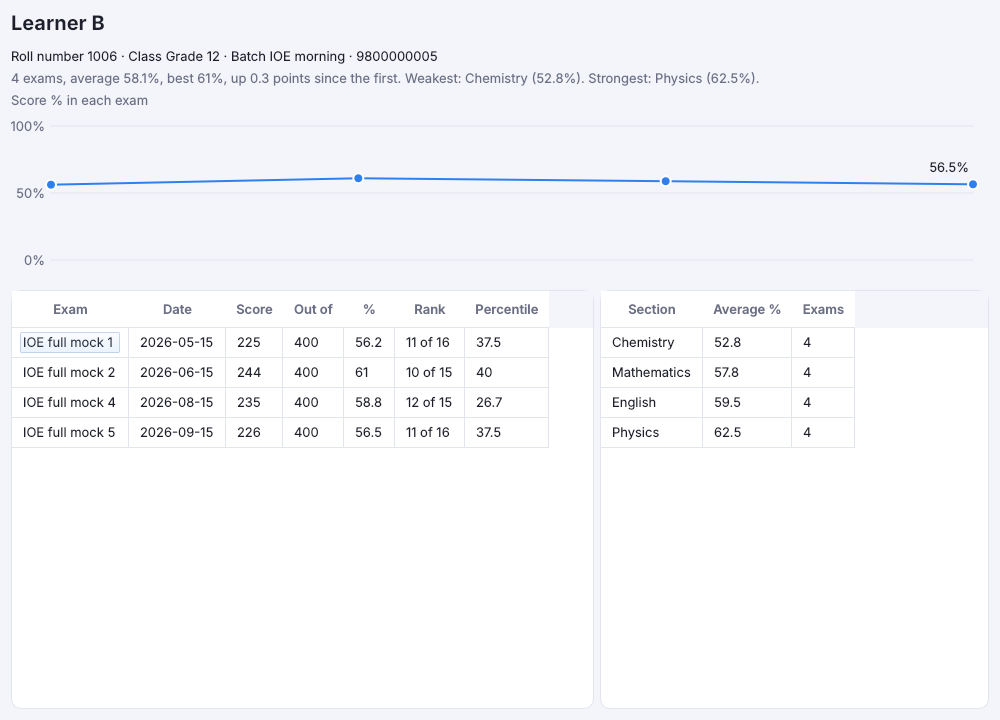
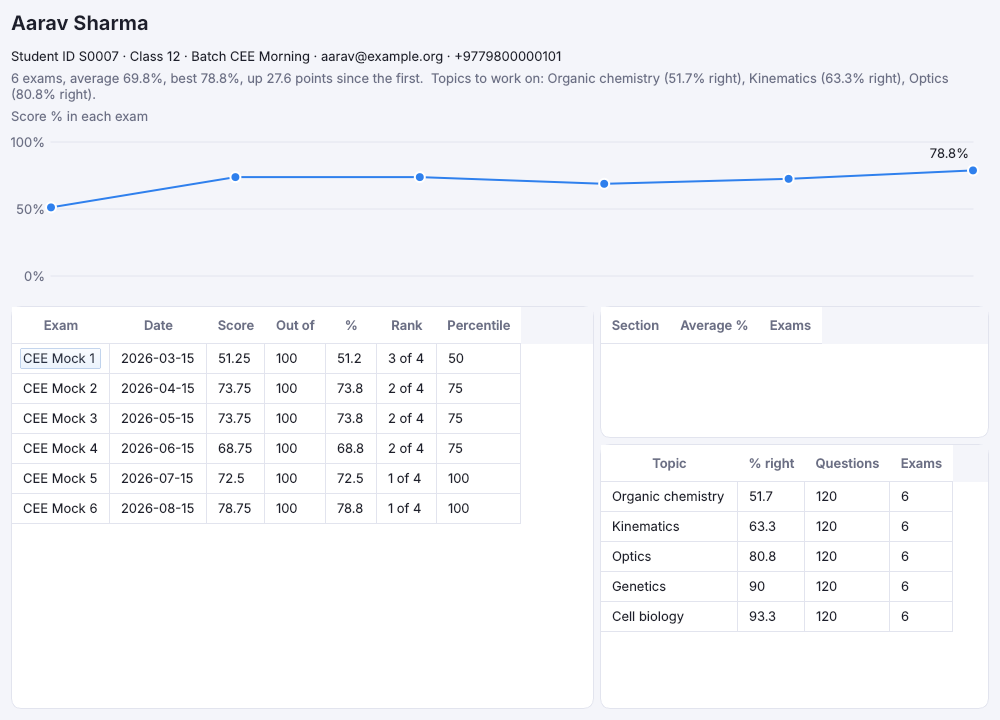
Topic-wise analysis: a student's weak topics over every exam, and batches compared
Claude-Session: https://claude.ai/code/session_01WvfxZMcbNpZuaDLjt6ReRy

diff --git a/src/omr_app/progress.py b/src/omr_app/progress.py
@@ -9,7 +9,7 @@ from PySide6.QtGui import QColor, QPainter, QPen
 from PySide6.QtWidgets import (QComboBox, QDialog, QFileDialog, QHBoxLayout, QLabel, QMessageBox, QPushButton,
                                QTableWidget, QTableWidgetItem, QToolTip, QVBoxLayout, QWidget)
 
-from omr_core.progress import Entry, attendance, history, section_averages
+from omr_core.progress import Entry, attendance, history, section_averages, topic_averages
 from omr_core.store import Store
 from omr_core.students import Student
 
@@ -91,7 +91,7 @@ class ProfileDialog(QDialog):
         self.setWindowTitle(student.name)
         self.resize(900, 700)
         self.entries = history(store, student.roll_number)
-        facts = [f"Roll number {student.roll_number}", student.class_name and f"Class {student.class_name}",
+        facts = [f"Student ID {student.roll_number}", student.class_name and f"Class {student.class_name}",
                  student.batch and f"Batch {student.batch}", student.email, student.phone]
         head = QLabel(f"<h2>{student.name}</h2>" + "  ·  ".join(f for f in facts if f), textFormat=Qt.RichText)
         head.setTextInteractionFlags(Qt.TextSelectableByMouse)
@@ -103,10 +103,13 @@ class ProfileDialog(QDialog):
                        + (f", {'up' if change >= 0 else 'down'} {abs(change):.1f} points since the first" if change
                           is not None else "") + ".")
         else:
-            summary = "No exam has a sheet read for this roll number yet."
+            summary = "No exam has a sheet read for this student yet."
         sections = section_averages(e)
         weak = (f"Weakest: {sections[0][0]} ({sections[0][1]:g}%). Strongest: {sections[-1][0]} "
                 f"({sections[-1][1]:g}%)." if len(sections) > 1 else "")
+        topics = topic_averages(e)
+        if len(topics) > 1:
+            weak += " Topics to work on: " + ", ".join(f"{t} ({p:g}% right)" for t, p, *_ in topics[:3]) + "."
         layout = QVBoxLayout(self)
         layout.addWidget(head)
         layout.addWidget(QLabel(f"{summary} {weak}", objectName="muted", wordWrap=True))
@@ -117,9 +120,16 @@ class ProfileDialog(QDialog):
                            [(x.exam, x.date, x.score, x.out_of, x.percent, f"{x.rank} of {x.of}",
                              round(x.percentile, 1)) for x in e])
         self.sections = table(["Section", "Average %", "Exams"], sections)
+        self.topics = table(["Topic", "% right", "Questions", "Exams"], topics)
+        self.topics.setToolTip("Every topic the student's exams gave their questions (Marks and sections, "
+                               "Topics…), weakest first")
+        side = QVBoxLayout()
+        side.addWidget(self.sections, 1)
+        side.addWidget(self.topics, 2)
+        self.topics.setVisible(bool(topics))
         tables = QHBoxLayout()
         tables.addWidget(self.exams, 3)
-        tables.addWidget(self.sections, 2)
+        tables.addLayout(side, 2)
         layout.addLayout(tables, 1)
 
 

diff --git a/src/omr_core/progress.py b/src/omr_core/progress.py
@@ -25,6 +25,7 @@ class Entry:
     of: int
     percentile: float
     sections: dict[str, float] = field(default_factory=dict)  # percentage per section
+    topics: dict[str, tuple[int, int]] = field(default_factory=dict)  # (right, counted) per topic
 
 
 def history(store: Store, student_id: str, exam_ids: list[int] | None = None) -> list[Entry]:
@@ -38,7 +39,7 @@ def history(store: Store, student_id: str, exam_ids: list[int] | None = None) ->
         e = store.exam(i)
         try:
             graded = grade(e.template, store.pages(i), e.answer_key, e.correct, e.wrong, e.blank, store.students(i),
-                           e.sections)
+                           e.sections, topics=store.topics(i))
         except ValueError:
             continue  # no usable key yet: the exam's own Answer key tab says why
         g = next((g for g in graded if person(i, g.page.result.roll_number) == want), None)
@@ -54,7 +55,7 @@ def history(store: Store, student_id: str, exam_ids: list[int] | None = None) ->
                 sections[sec.name] = round(100 * g.sections.get(sec.name, 0.0) / most, 1)
         out.append(Entry(i, e.name, e.details.get("date") or e.created[:10], g.score, out_of,
                          round(100 * g.score / out_of, 1) if out_of else 0.0, g.rank, len(graded), g.percentile,
-                         sections))
+                         sections, g.topics))
     return out
 
 
@@ -65,6 +66,20 @@ def section_averages(entries: list[Entry]) -> list[tuple[str, float, int]]:
         for name, p in entry.sections.items():
             seen.setdefault(name, []).append(p)
     return sorted(((name, round(sum(p) / len(p), 1), len(p)) for name, p in seen.items()), key=lambda s: s[1])
+
+
+def topic_averages(entries: list[Entry]) -> list[tuple[str, float, int, int]]:
+    """(topic, % right, questions, exams) over the student's exams, weakest first. A topic is the same topic in
+    every exam that names it alike, so "Kinematics" in three mocks counts as one."""
+    seen: dict[str, list[int]] = {}
+    for entry in entries:
+        for name, (right, counted) in entry.topics.items():
+            if counted:
+                got = seen.setdefault(name, [0, 0, 0])
+                got[0] += right
+                got[1] += counted
+                got[2] += 1
+    return sorted(((name, round(100 * r / n, 1), n, k) for name, (r, n, k) in seen.items()), key=lambda t: t[1])
 
 
 def attendance(store: Store, students: list[str], exam_ids: list[int]) -> dict[str, list[bool]]:

diff --git a/src/omr_core/export.py b/src/omr_core/export.py
@@ -244,6 +244,15 @@ def write_excel(path: str | Path, exam_name: str, t: Template, graded: list[Grad
         by_topic.append(["Everyone", "", *(_share(total) for total in totals)])
         by_topic.cell(by_topic.max_row, 1).font = Font(bold=True)
         sheets.append((by_topic, 1))
+    batches = batch_summary(graded)
+    if len(batches) > 1:
+        by_batch = wb.create_sheet("Batches")
+        by_batch.append(["Batch", "Students", "Average score", "Highest score",
+                         *(f"{s} average" for s in section_names), *(f"{t} % right" for t in names)])
+        for row in batches:
+            by_batch.append([row[0], row[1], row[2], row[3], *(row[4].get(s) for s in section_names),
+                             *(row[5].get(t) for t in names)])
+        sheets.append((by_batch, 1))
     for sheet, header_row in sheets:
         for cell in sheet[header_row]:
             cell.font = Font(bold=True)
@@ -253,6 +262,24 @@ def write_excel(path: str | Path, exam_name: str, t: Template, graded: list[Grad
             width = max(len(str(c.value or "")) for c in column[header_row - 1:]) + 2
             sheet.column_dimensions[column[0].column_letter].width = min(max(width, 6), 40)
     wb.save(path)
+
+
+def batch_summary(graded: list[Graded]) -> list[tuple[str, int, float, float, dict[str, float], dict[str, float]]]:
+    """How each batch did, by batch name: (batch, students, average score, highest score, average per section,
+    % right per topic). Students not in a batch are left out; "" when none is."""
+    groups: dict[str, list[Graded]] = {}
+    for g in graded:
+        if g.student and g.student.batch:
+            groups.setdefault(g.student.batch, []).append(g)
+    out = []
+    for batch in sorted(groups, key=str.casefold):
+        gs = groups[batch]
+        sections = {s: round(sum(g.sections.get(s, 0) for g in gs) / len(gs), 2) for s in gs[0].sections}
+        topics = {t: _share((sum(g.topics.get(t, (0, 0))[0] for g in gs), sum(g.topics.get(t, (0, 0))[1] for g in gs)))
+                  for t in dict.fromkeys(t for g in gs for t in g.topics)}
+        out.append((batch, len(gs), round(sum(g.score for g in gs) / len(gs), 2), max(g.score for g in gs), sections,
+                    topics))
+    return out
 
 
 def _share(right_counted: tuple[int, int] | None) -> float | None:

diff --git a/tests/test_export.py b/tests/test_export.py
@@ -3,7 +3,7 @@ from pathlib import Path
 import pypdfium2
 from openpyxl import load_workbook
 
-from omr_core.export import grade, item_analysis, write_excel, write_scorecards
+from omr_core.export import batch_summary, grade, item_analysis, write_excel, write_scorecards
 from omr_core.grading import Section
 from omr_core.reader import PageResult
 from omr_core.store import Store
@@ -198,3 +198,19 @@ def test_scorecards_and_excel_carry_the_institute(tmp_path):
     write_excel(tmp_path / "r.xlsx", "Mock 1", t, graded, inst)
     wb = load_workbook(tmp_path / "r.xlsx")
     assert wb["Merit list"]["A1"].value == "Sunrise Academy: Mock 1" and wb.properties.creator == "Sunrise Academy"
+
+
+def test_batches_are_compared_on_score_and_topic(tmp_path):
+    from omr_core.students import Student
+    t, pages, key = exam_with_pages(tmp_path)
+    topics = {1: "Kinematics", 2: "Kinematics", **{q: "Optics" for q in range(5, 101)}}
+    students = {"111": Student("111", "Asha", batch="Morning"), "222": Student("222", "Bina", batch="Evening"),
+                "333": Student("333", "Chet", batch="Morning"), "444": Student("444", "Dev")}
+    graded = grade(t, pages, key, 4, -1, 0, students, topics=topics)
+    batches = {b[0]: b for b in batch_summary(graded)}
+    assert list(batches) == ["Evening", "Morning"]  # Dev is in no batch
+    assert batches["Morning"][1:4] == (2, 396.0, 396) and batches["Morning"][5]["Kinematics"] == 100
+    assert batches["Evening"][5]["Kinematics"] == 50
+    write_excel(tmp_path / "merit.xlsx", "Mock 1", t, graded)
+    rows = list(load_workbook(tmp_path / "merit.xlsx")["Batches"].iter_rows(values_only=True))
+    assert rows[0][:4] == ("Batch", "Students", "Average score", "Highest score") and rows[2][0] == "Morning"

diff --git a/tests/test_series.py b/tests/test_series.py
@@ -108,3 +108,17 @@ def test_a_student_under_a_new_roll_number_in_each_test_is_one_row(tmp_path):
     s.rolls_change = False  # roll numbers are Student IDs: an unlinked 105 is the same student in both
     _, rows, _ = series_results(s, "JEE")
     assert len(rows) == 3
+
+
+def test_a_students_weak_topics_add_up_over_their_exams(tmp_path):
+    from omr_core.progress import history, topic_averages
+
+    s = Store(tmp_path / "omr.db")
+    s.save_student(Student("111", "Asha"))
+    for name, right in (("Mock 1", 10), ("Mock 2", 30)):
+        exam = s.create_exam(name, TEMPLATE)
+        s.save_scheme(exam, "A" * 100, 1, 0, 0)
+        s.set_topics(exam, {**{q: "Kinematics" for q in range(1, 41)}, **{q: "Optics" for q in range(41, 101)}})
+        s.add_page(exam, "b", "a.png", 1, sheet("111", right))
+    # Kinematics: 10 of 40, then 30 of 40; Optics: none right in either
+    assert topic_averages(history(s, "111")) == [("Optics", 0.0, 120, 2), ("Kinematics", 50.0, 80, 2)]

diff --git a/docs/students.md b/docs/students.md
@@ -53,7 +53,10 @@ then the student with that Student ID, as before.
 
 Choose a student and press **Profile…** (or double-click them). It shows every exam they took, with
 their score, percentage, rank and percentile, a line of their percentage in each exam (point at a
-dot to see the exam), and their average in each section, weakest first. Sheets are matched to the
+dot to see the exam), their average in each section, weakest first, and, when the exams have
+[topics](marks-and-sections.md#topics), their share right in each topic over every exam, weakest
+first, with the three to work on named at the top. A topic named alike in several exams (say
+"Kinematics" in every mock) counts as one. Sheets are matched to the
 student through each exam's list, or by roll number as their Student ID (a sheet's `00123` is the
 directory's `123`).
 

diff --git a/docs/results.md b/docs/results.md
@@ -26,6 +26,9 @@ Press **Merit list (Excel)…** and choose where to save it. The file has:
   left it blank, the most chosen wrong answer, and how well the question separates strong students
   from weak ones. It helps you find a question that was too hard or had a mistake in it;
 - a **Topics** sheet, if you set [topics](marks-and-sections.md#topics).
+- a **Batches** sheet, when the students on the exam's list are in two or more batches: each
+  batch's students, average and highest score, average in each section and share right in each
+  topic, side by side.
 
 ## Scorecards
 
